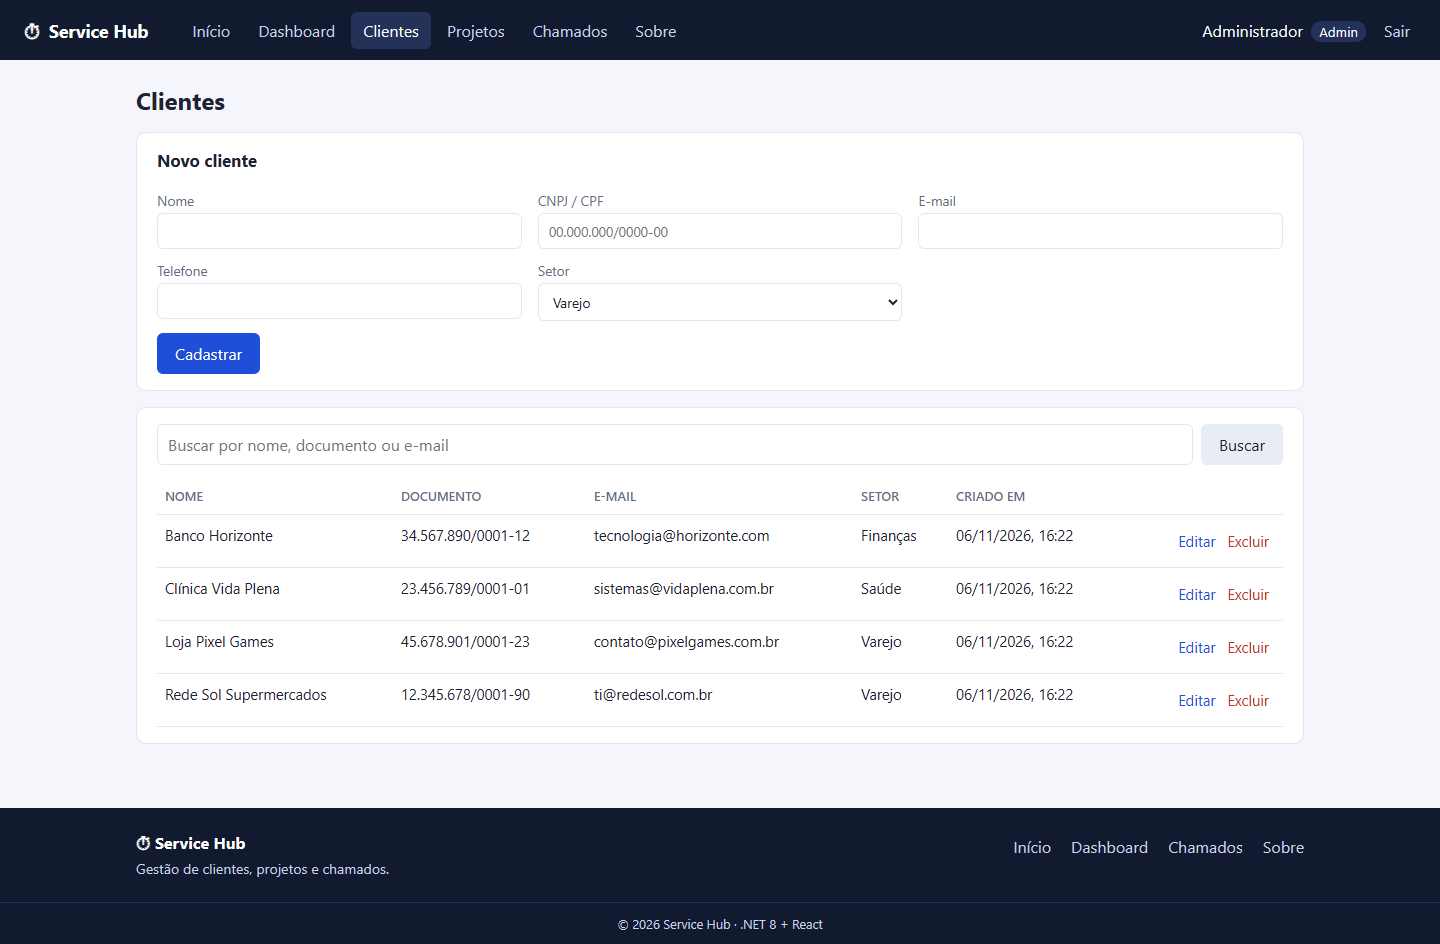
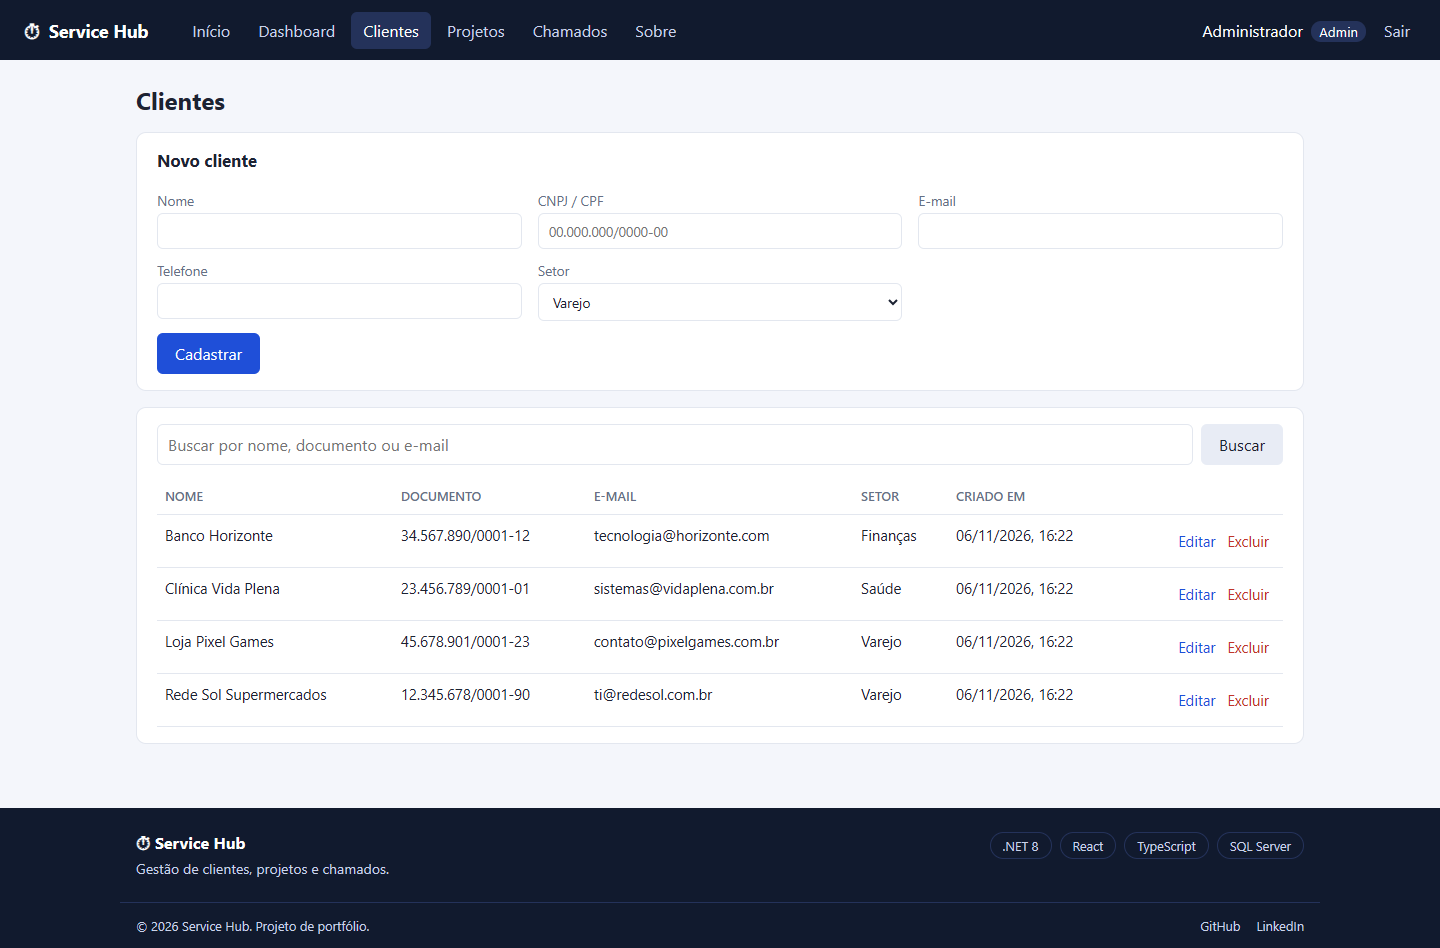
Atualiza footer e estilos do frontend

diff --git a/frontend/src/styles.css b/frontend/src/styles.css
@@ -149,13 +149,19 @@ h3 { margin: 0 0 8px; font-size: 1.05rem; }
 }
 .rodape strong { color: #fff; }
 .rodape-texto { margin: 6px 0 0; font-size: 0.88rem; }
-.rodape-links { display: flex; gap: 4px 20px; flex-wrap: wrap; }
-.rodape-links a { color: var(--topbar-texto); text-decoration: none; padding: 4px 0; }
-.rodape-links a:hover { color: #fff; text-decoration: underline; }
-.rodape-base {
-  border-top: 1px solid var(--topbar-destaque); text-align: center;
-  padding: 12px 16px; font-size: 0.8rem;
+.rodape-tags { display: flex; gap: 8px; flex-wrap: wrap; list-style: none; margin: 0; padding: 0; }
+.rodape-tags li {
+  border: 1px solid var(--topbar-destaque); border-radius: 999px;
+  padding: 4px 12px; font-size: 0.8rem; color: var(--topbar-texto);
 }
+.rodape-base {
+  max-width: 1200px; margin: 0 auto; border-top: 1px solid var(--topbar-destaque);
+  padding: 14px 16px; font-size: 0.8rem;
+  display: flex; justify-content: space-between; align-items: center; gap: 8px 16px; flex-wrap: wrap;
+}
+.rodape-externos { display: flex; gap: 16px; }
+.rodape-externos a { color: var(--topbar-texto); text-decoration: none; }
+.rodape-externos a:hover { color: #fff; text-decoration: underline; }
 
 /* =========================================================
    COMPONENTES
@@ -388,6 +394,7 @@ tbody tr:hover { background: #f8f9fd; }
   .fluxo { flex-direction: column; }
   .fluxo li { flex: none; }
   .rodape-conteudo { flex-direction: column; gap: 12px; }
+  .rodape-base { flex-direction: column; text-align: center; }
 
   /* Toasts embaixo, ocupando a largura, perto do polegar */
   .toasts { top: auto; bottom: 16px; left: 12px; right: 12px; width: auto; }

diff --git a/frontend/src/components/Footer.tsx b/frontend/src/components/Footer.tsx
@@ -1,4 +1,4 @@
-import { Link } from 'react-router-dom';
+const TECNOLOGIAS = ['.NET 8', 'React', 'TypeScript', 'SQL Server'];
 
 export default function Footer() {
   return (
@@ -8,15 +8,16 @@ export default function Footer() {
           <strong>⏱ Service Hub</strong>
           <p className="rodape-texto">Gestão de clientes, projetos e chamados.</p>
         </div>
-        <nav className="rodape-links" aria-label="Links do rodapé">
-          <Link to="/">Início</Link>
-          <Link to="/dashboard">Dashboard</Link>
-          <Link to="/chamados">Chamados</Link>
-          <Link to="/sobre">Sobre</Link>
-        </nav>
+        <ul className="rodape-tags" aria-label="Tecnologias utilizadas">
+          {TECNOLOGIAS.map((t) => <li key={t}>{t}</li>)}
+        </ul>
       </div>
       <div className="rodape-base">
-        © {new Date().getFullYear()} Service Hub · .NET 8 + React
+        <span>© {new Date().getFullYear()} Service Hub. Projeto de portfólio.</span>
+        <span className="rodape-externos">
+          <a href="https://github.com/kauedota/servicehub-fullstack" target="_blank" rel="noopener noreferrer">GitHub</a>
+          <a href="https://www.linkedin.com/in/kaue-dota/" target="_blank" rel="noopener noreferrer">LinkedIn</a>
+        </span>
       </div>
     </footer>
   );
